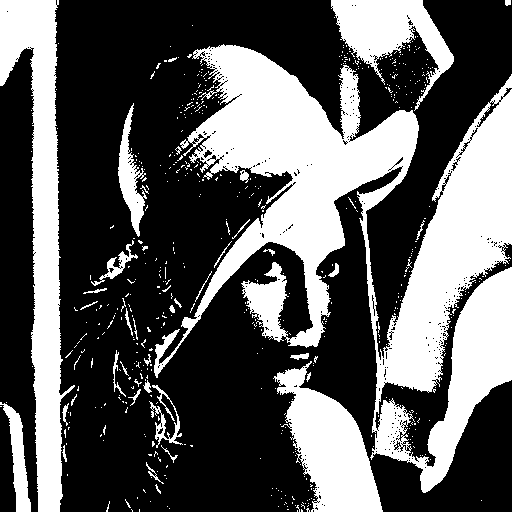
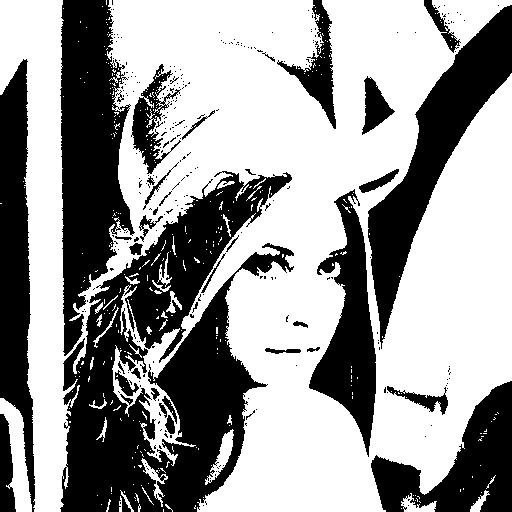
niblack algorithm

diff --git a/main.py b/main.py
@@ -2,12 +2,11 @@ from tkinter import *
 from PIL import ImageTk, Image
 from tkinter import filedialog
 import pathlib
-import pygubu
 import tkinter as tk
 import tkinter.ttk as ttk
 import numpy as np
-import matplotlib.pyplot as plt
 import cv2
+import matplotlib.pyplot as plt
 
 
 PROJECT_PATH = pathlib.Path(__file__).parent
@@ -17,6 +16,7 @@ PROJECT_UI = PROJECT_PATH / "biometria_gui.ui"
 class BiometriaGuiApp:
     def __init__(self, master=None):
         # build ui
+        self.original_image_path = None
         self.grey_changed_image_1 = None
         self.grey_original_image = None
         self.changed_image_1 = None
@@ -45,6 +45,29 @@ class BiometriaGuiApp:
         self.frame1.configure(height='117', width='200')
         self.frame1.pack(padx='10', pady='10', side='top')
         self.frame1.pack_propagate(0)
+        self.niblack_container = tk.Frame(self.menu_frame)
+        self.niblack_window_size_label = ttk.Label(self.niblack_container)
+        self.niblack_window_size_label.configure(text='Window size')
+        self.niblack_window_size_label.pack(fill='x', side='top')
+        self.niblack_window_size_input = ttk.Spinbox(self.niblack_container)
+        self.niblack_window_size_input.configure(from_='1', increment='2', to='100')
+        self.niblack_window_size_input.pack(fill='x', side='top')
+        self.niblack_window_size_input.set(15)
+        self.niblack_k_label = ttk.Label(self.niblack_container)
+        self.niblack_k_label.configure(text='k')
+        self.niblack_k_label.pack(fill='x', side='top')
+        self.niblack_k_input = ttk.Spinbox(self.niblack_container)
+        self.niblack_k_input.configure(from_='-100', increment='0.1', to='100')
+        self.niblack_k_input.pack(fill='x', side='top')
+        self.niblack_k_input.set(0.2)
+        self.niblack_algorithm_button = tk.Button(self.niblack_container)
+        self.niblack_algorithm_button.configure(text='Niblack Algorithm')
+        self.niblack_algorithm_button.pack(fill='x', side='top')
+        self.niblack_algorithm_button.configure(command=self.niblack_algorithm)
+        self.niblack_container.configure(height='101', width='200')
+        self.niblack_container.pack(padx='10', pady='10', side='top')
+        self.niblack_container.pack_propagate(0)
+
         self.menu_frame.configure(background='#F6AE2D', height='800', width='200')
         self.menu_frame.pack(side='left')
         self.menu_frame.pack_propagate(0)
@@ -102,6 +125,39 @@ class BiometriaGuiApp:
     def run(self):
         self.mainwindow.mainloop()
 
+    def niblack(self, img, w, k):
+        img = img.astype(float)
+        img2 = np.square(img)
+
+        ave = cv2.blur(img, (w, w))
+        ave2 = cv2.blur(img2, (w, w))
+
+        n = np.multiply(*img.shape)
+        std = np.sqrt((ave2 * n - img2) / n / (n - 1))
+
+        t = ave + k * std
+        binary = np.zeros(img.shape)
+        binary[img >= t] = 255
+        return binary
+
+    # Niblack local threshold to an array
+    # A threshold T is calculated for every pixel in the image
+    def niblack_algorithm(self):
+        if not self.original_image:
+            self.message_popup('No image selected', 'Please select an image first', 'info')
+            return
+        window_size = int(self.niblack_window_size_input.get())
+        k = float(self.niblack_k_input.get())
+        original = cv2.imread(self.original_image_path)
+        scaled = cv2.resize(original, None, fx=1, fy=1)
+        scaled = cv2.cvtColor(scaled, cv2.COLOR_BGR2GRAY)
+        inverted = 255 - scaled
+        binary_inv = self.niblack(inverted, window_size, k)
+        binary = 255 - binary_inv
+
+        cv2.imshow('Niblack', binary)
+        pass
+
     def gray_scale_image(self, image):
         image = image.convert('L')
         return image
@@ -113,6 +169,7 @@ class BiometriaGuiApp:
             return
         img = Image.open(filename)
         self.original_image = img
+        self.original_image_path = filename
         self.insert_image(img, self.original_image_canvas)
         grey_image = self.gray_scale_image(img)
         self.grey_original_image = grey_image.copy()
